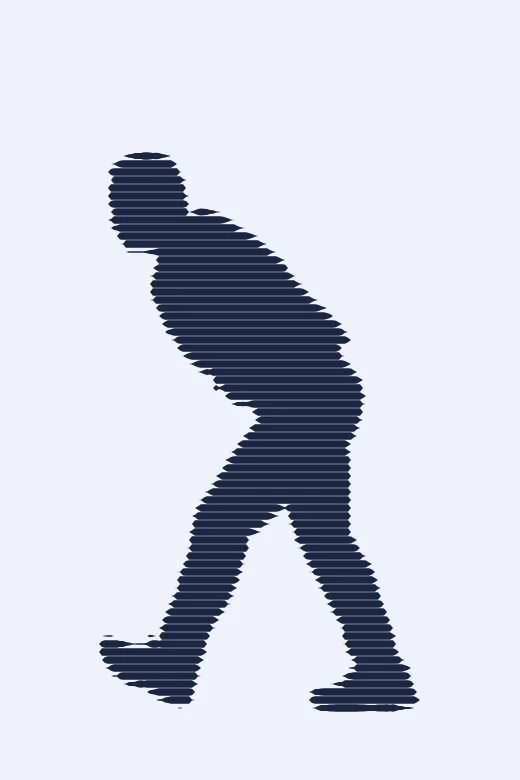
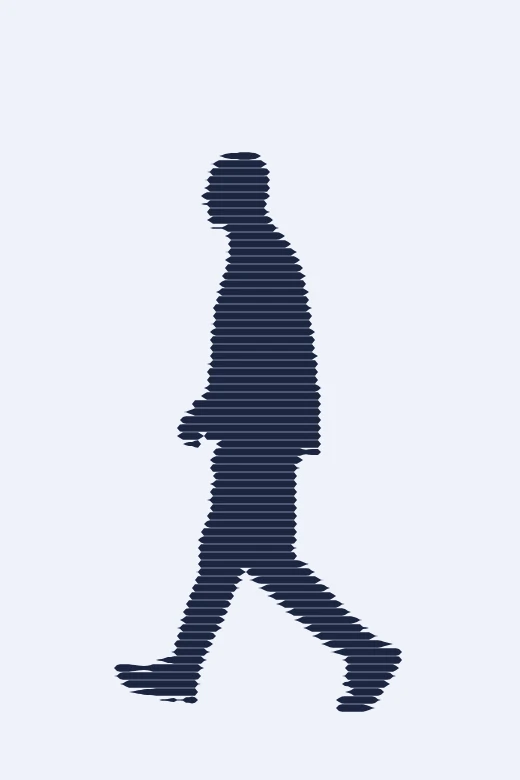
Site : Johnny vs Sophie en pts, scanlines des carrousels

diff --git a/scripts/scan-athletes/panels/make_silhouettes.py b/scripts/scan-athletes/panels/make_silhouettes.py
@@ -10,7 +10,7 @@ W, H, GROUND, T = 520, 780, 712, 560
 S = [("126-A", "running", 1.0, False), ("041-A_flat", "cycling", 0.7, True), ("148-A", "lifting", 1.0, False),
      ("010-B", "sprint", 0.92, False), ("141-A", "tennis", 0.80, False), ("105-A", "wheelchair", 0.78, True),
      ("134-A", "nordic-walking", 0.97, True), ("106-A", "basketball", 1.08, True), ("092-A", "spin", 0.98, False),
-     ("099-A", "walking", 1.0, False)]
+     ("016-A", "walking", 1.0, True)]
 session = new_session("isnet-general-use")
 for src, name, f, flip in S:
     a = np.array(remove(Image.open(SRC + src + ".png").convert("RGB"), session=session).getchannel("A")) > 110
